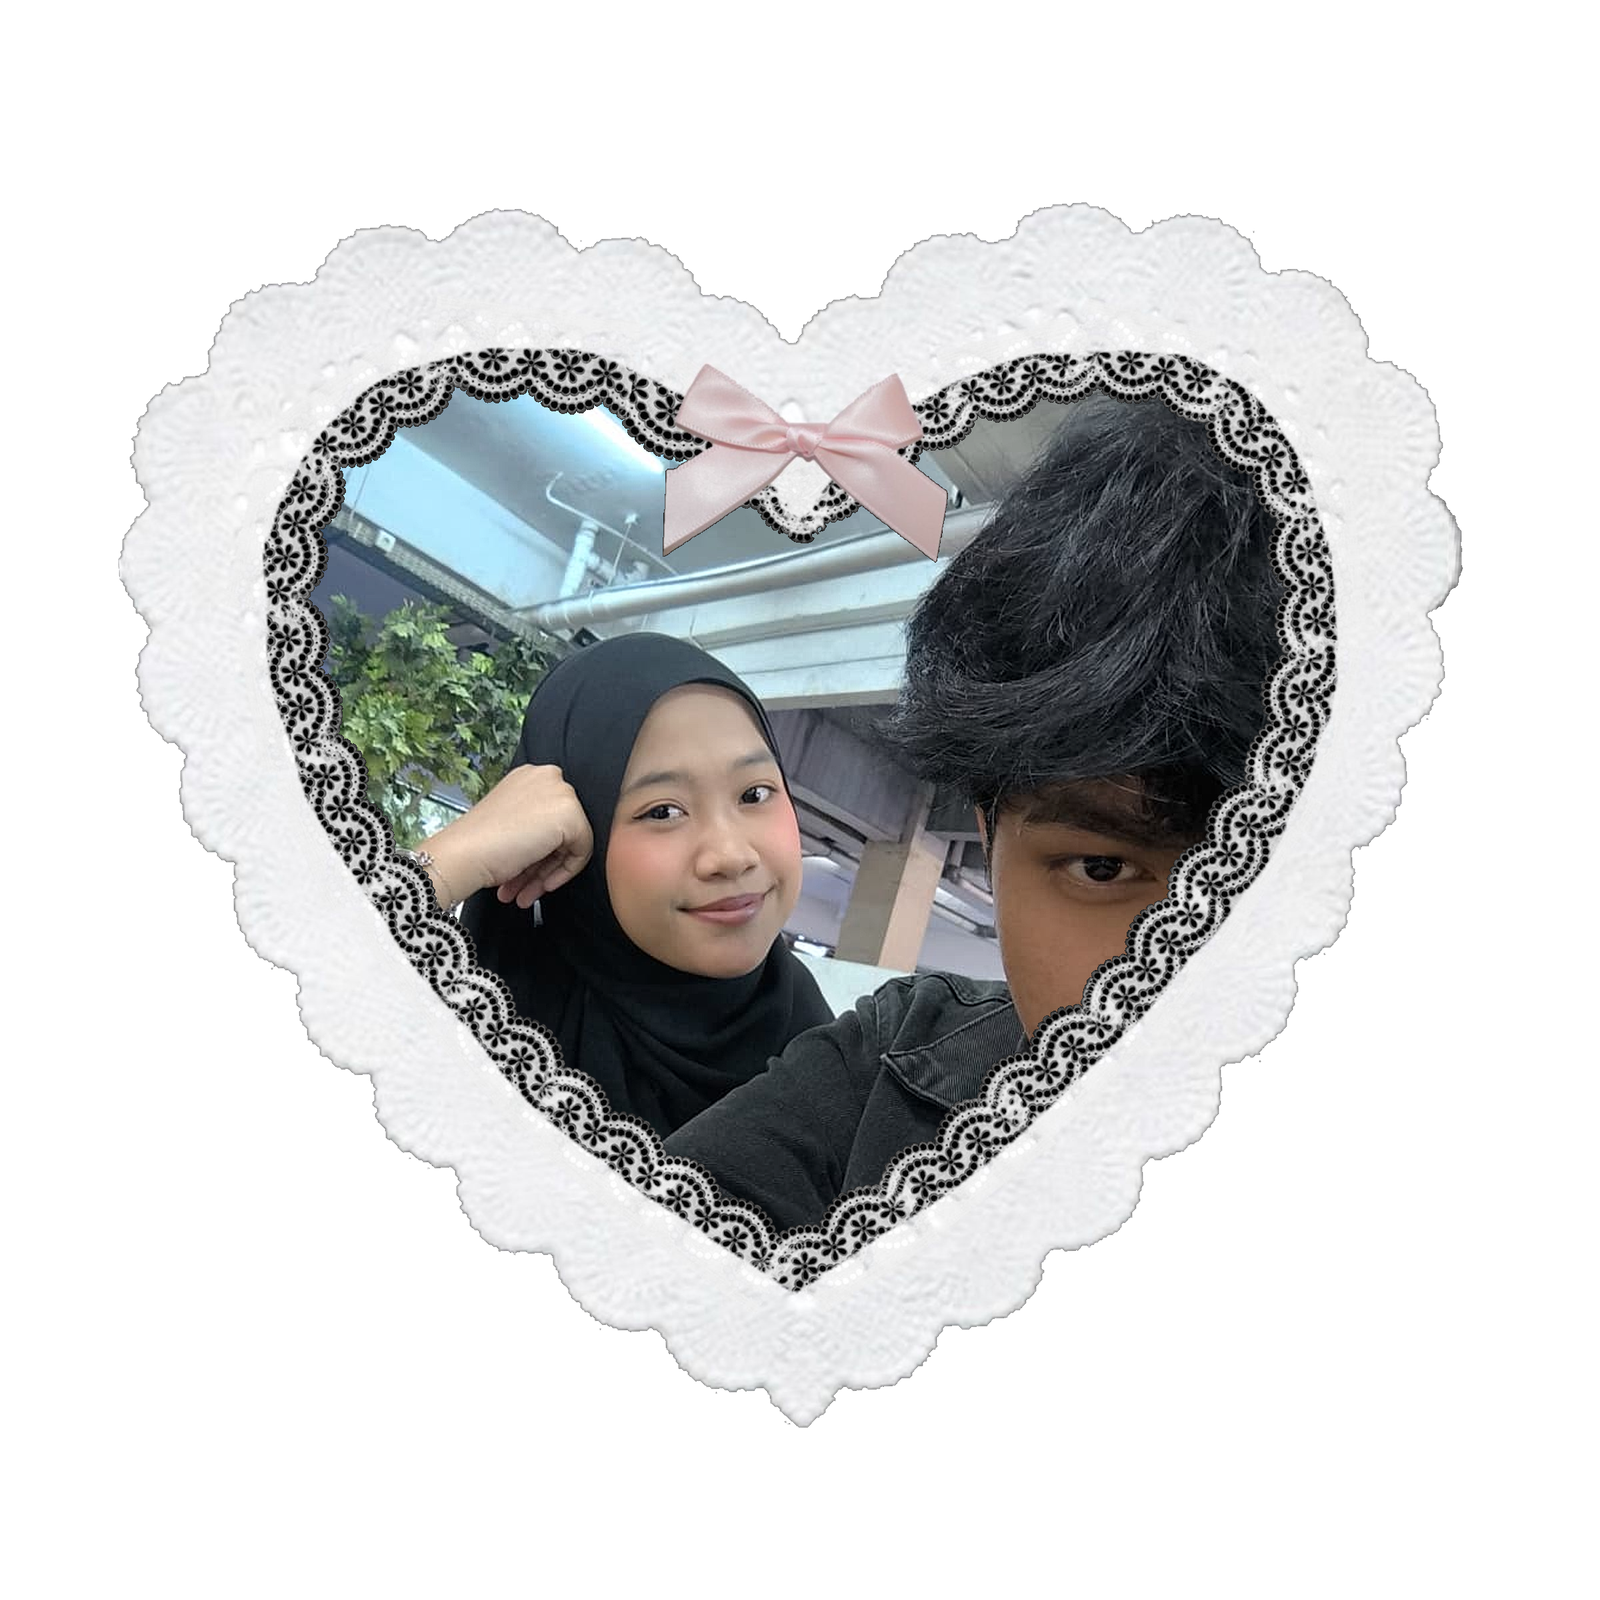
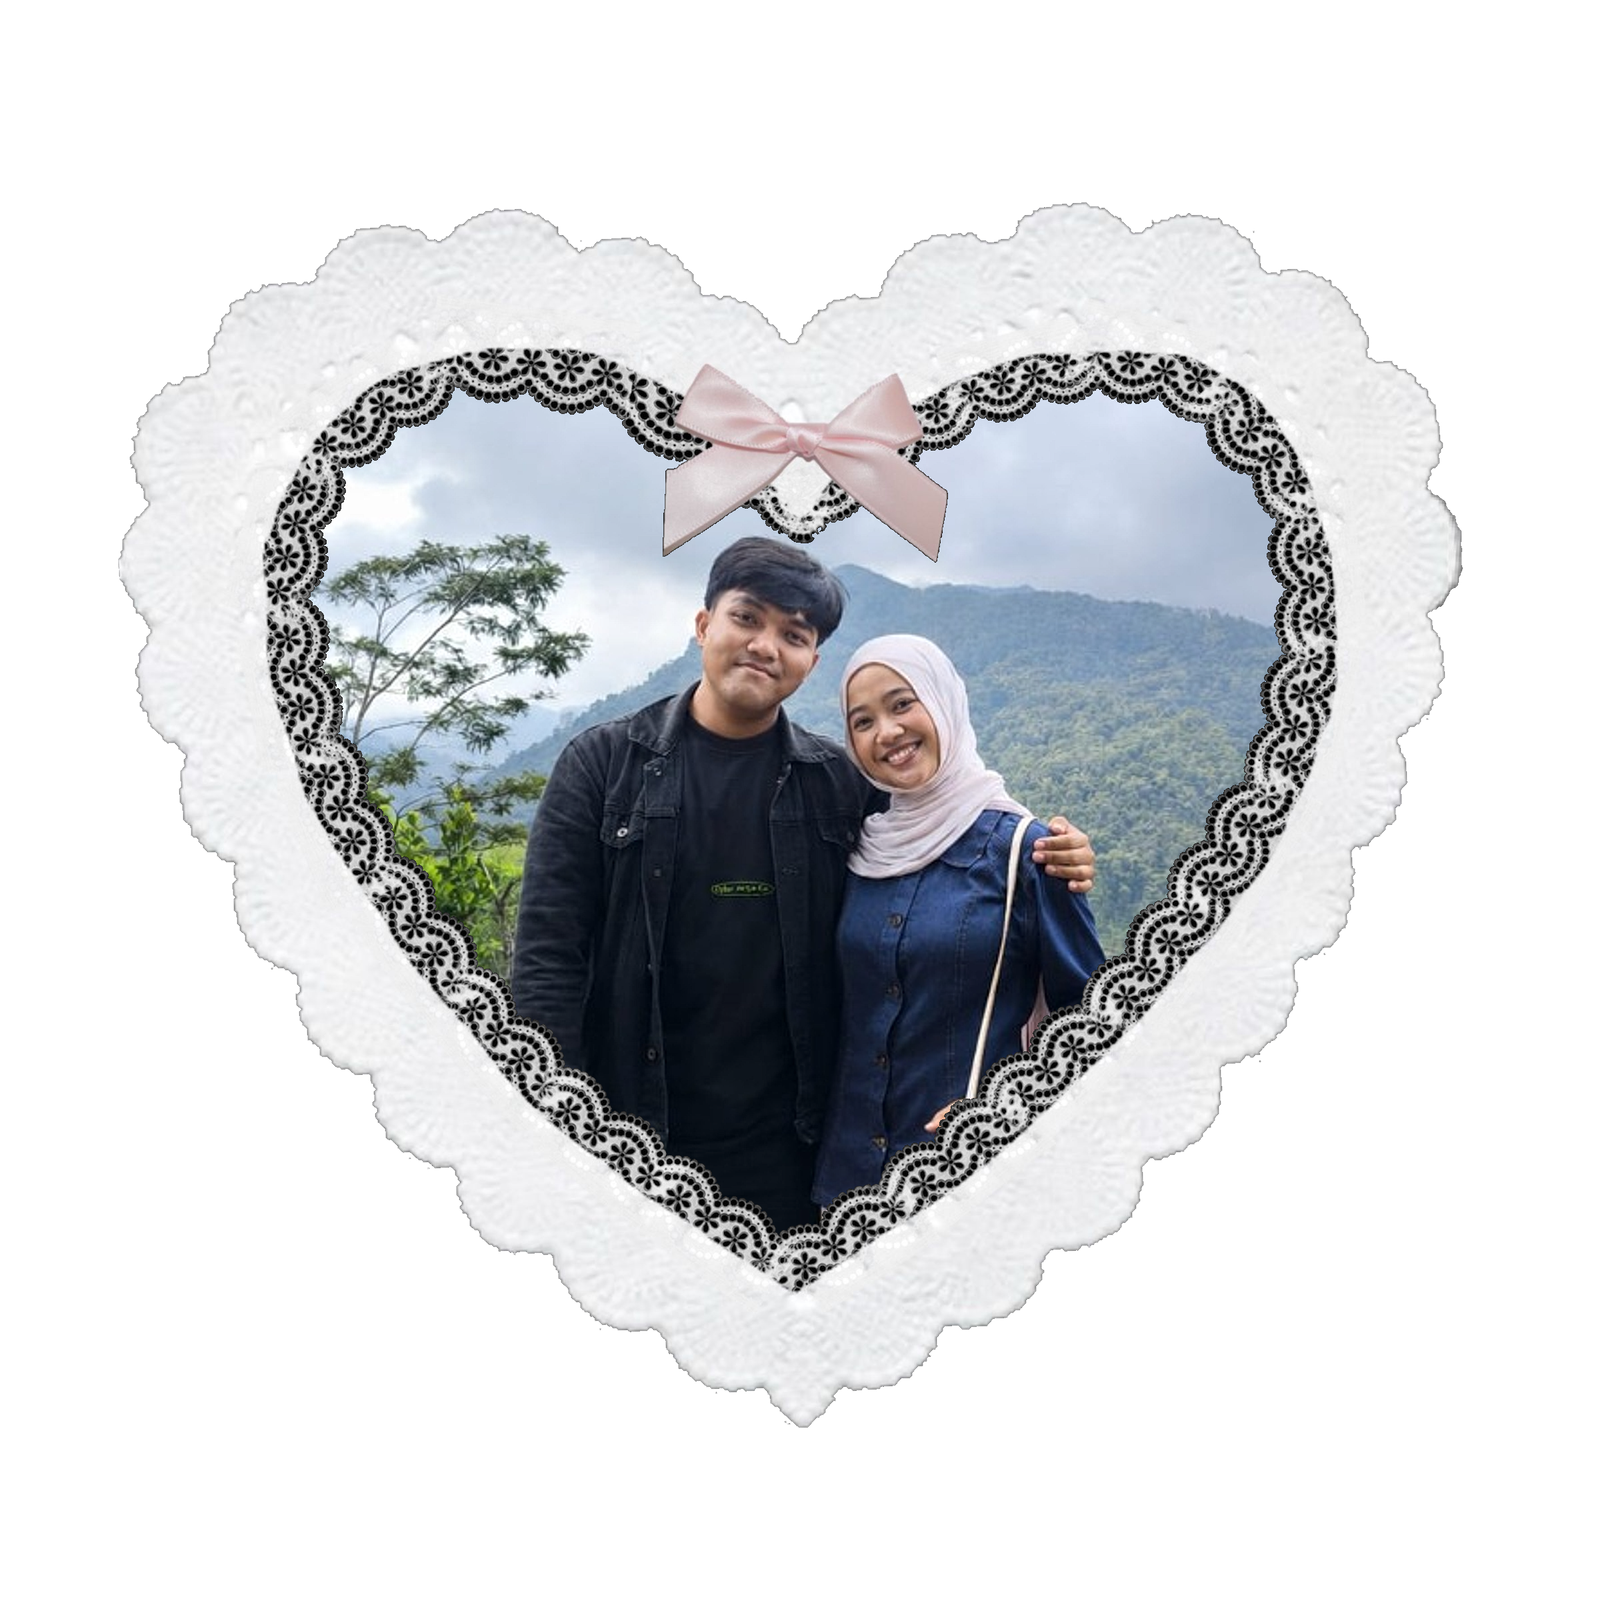
Use mountain scenic photo for ScreenLanding heart frame and preserve selfie for link preview

Changed region(s): [[0.1875, 0.25, 0.8125, 0.7812]]

diff --git a/scripts/deploy_mountain_landing.js b/scripts/deploy_mountain_landing.js
@@ -1,0 +1,182 @@
+import sharp from 'sharp';
+import fs from 'fs';
+
+async function deployMountainLanding() {
+  const framePath = 'scripts/pinterest_frame_orig.jpg';
+  const photoPath = 'couple_mountain.jpg';
+
+  console.log('1. Loading Pinterest frame and couple mountain photo...');
+  const { data: frameRaw, info } = await sharp(framePath).raw().toBuffer({ resolveWithObject: true });
+  const w = info.width; // 2400
+  const h = info.height; // 2400
+
+  function getB(idx) {
+    return (frameRaw[idx * 3] + frameRaw[idx * 3 + 1] + frameRaw[idx * 3 + 2]) / 3;
+  }
+
+  // Flood fill outside
+  const isOutside = new Uint8Array(w * h);
+  const queueOut = [];
+  for (let x = 0; x < w; x++) {
+    queueOut.push(x);
+    queueOut.push((h - 1) * w + x);
+    isOutside[x] = 1;
+    isOutside[(h - 1) * w + x] = 1;
+  }
+  for (let y = 0; y < h; y++) {
+    queueOut.push(y * w);
+    queueOut.push(y * w + (w - 1));
+    isOutside[y * w] = 1;
+    isOutside[y * w + (w - 1)] = 1;
+  }
+
+  let head = 0;
+  while (head < queueOut.length) {
+    const curr = queueOut[head++];
+    const cx = curr % w;
+    const cy = Math.floor(curr / w);
+    const neighbors = [
+      cx + 1 < w ? curr + 1 : -1,
+      cx - 1 >= 0 ? curr - 1 : -1,
+      cy + 1 < h ? curr + w : -1,
+      cy - 1 >= 0 ? curr - w : -1
+    ];
+    for (const nidx of neighbors) {
+      if (nidx >= 0 && !isOutside[nidx]) {
+        if (getB(nidx) < 45) {
+          isOutside[nidx] = 1;
+          queueOut.push(nidx);
+        }
+      }
+    }
+  }
+
+  // Smooth outside border to remove dark edge fringe
+  for (let pass = 0; pass < 2; pass++) {
+    const toAdd = [];
+    for (let y = 1; y < h - 1; y++) {
+      for (let x = 1; x < w - 1; x++) {
+        const idx = y * w + x;
+        if (!isOutside[idx]) {
+          const hasOut = isOutside[idx + 1] || isOutside[idx - 1] || isOutside[idx + w] || isOutside[idx - w];
+          if (hasOut && getB(idx) < 95) toAdd.push(idx);
+        }
+      }
+    }
+    for (const idx of toAdd) isOutside[idx] = 1;
+  }
+
+  // Inside flood fill
+  const isInside = new Uint8Array(w * h);
+  const queueIn = [1200 * w + 1200];
+  isInside[1200 * w + 1200] = 1;
+  head = 0;
+  while (head < queueIn.length) {
+    const curr = queueIn[head++];
+    const cx = curr % w;
+    const cy = Math.floor(curr / w);
+    const neighbors = [
+      cx + 1 < w ? curr + 1 : -1,
+      cx - 1 >= 0 ? curr - 1 : -1,
+      cy + 1 < h ? curr + w : -1,
+      cy - 1 >= 0 ? curr - w : -1
+    ];
+    for (const nidx of neighbors) {
+      if (nidx >= 0 && !isInside[nidx] && !isOutside[nidx]) {
+        if (getB(nidx) < 22) {
+          isInside[nidx] = 1;
+          queueIn.push(nidx);
+        }
+      }
+    }
+  }
+
+  console.log('2. Processing mountain photo with refined crop and lanczos3 sharpness...');
+  // Refined crop: left 180, top 160, size 570
+  const photoCropped = await sharp(photoPath)
+    .extract({ left: 180, top: 160, width: 570, height: 570 })
+    .resize(1540, 1540, { fit: 'fill', kernel: 'lanczos3' })
+    .sharpen({ sigma: 1.2, m1: 1.2, m2: 0.5 })
+    .raw()
+    .toBuffer();
+
+  const photoW = 1540;
+  const photoH = 1540;
+  const photoX = Math.round(1175 - photoW / 2);
+  const photoY = Math.round(1330 - photoH / 2);
+
+  const compositeBuf = Buffer.alloc(w * h * 4);
+
+  // Fill photo canvas
+  for (let py = 0; py < photoH; py++) {
+    for (let px = 0; px < photoW; px++) {
+      const targetX = photoX + px;
+      const targetY = photoY + py;
+      if (targetX >= 0 && targetX < w && targetY >= 0 && targetY < h) {
+        const cidx = (targetY * w + targetX) * 4;
+        const pidx = (py * photoW + px) * 3;
+        compositeBuf[cidx] = photoCropped[pidx];
+        compositeBuf[cidx + 1] = photoCropped[pidx + 1];
+        compositeBuf[cidx + 2] = photoCropped[pidx + 2];
+        compositeBuf[cidx + 3] = 255;
+      }
+    }
+  }
+
+  // Composite frame on top of photo
+  for (let y = 0; y < h; y++) {
+    for (let x = 0; x < w; x++) {
+      const idx = y * w + x;
+      const cidx = idx * 4;
+      const fidx = idx * 3;
+
+      if (isOutside[idx]) {
+        compositeBuf[cidx] = 0;
+        compositeBuf[cidx + 1] = 0;
+        compositeBuf[cidx + 2] = 0;
+        compositeBuf[cidx + 3] = 0;
+        continue;
+      }
+
+      if (isInside[idx]) continue;
+
+      const nearOut = (x > 0 && isOutside[idx - 1]) || 
+                      (x < w - 1 && isOutside[idx + 1]) || 
+                      (y > 0 && isOutside[idx - w]) || 
+                      (y < h - 1 && isOutside[idx + w]);
+
+      const fr = frameRaw[fidx];
+      const fg = frameRaw[fidx + 1];
+      const fb = frameRaw[fidx + 2];
+      const b = (fr + fg + fb) / 3;
+
+      if (nearOut && b < 160) {
+        const alphaNorm = Math.min(1.0, Math.max(0.0, (b - 80) / (160 - 80)));
+        compositeBuf[cidx] = Math.round(fr * (1 - alphaNorm) + 245 * alphaNorm);
+        compositeBuf[cidx + 1] = Math.round(fg * (1 - alphaNorm) + 245 * alphaNorm);
+        compositeBuf[cidx + 2] = Math.round(fb * (1 - alphaNorm) + 248 * alphaNorm);
+        compositeBuf[cidx + 3] = Math.round(alphaNorm * 255);
+      } else {
+        compositeBuf[cidx] = fr;
+        compositeBuf[cidx + 1] = fg;
+        compositeBuf[cidx + 2] = fb;
+        compositeBuf[cidx + 3] = 255;
+      }
+    }
+  }
+
+  console.log('3. Saving 1600x1600 Ultra-HD mountain composite for ScreenLanding...');
+  const masterHeartPath = 'public/heart_lace_hd.png';
+  await sharp(compositeBuf, { raw: { width: w, height: h, channels: 4 } })
+    .resize(1600, 1600, { kernel: 'lanczos3' })
+    .png({ compressionLevel: 8 })
+    .toFile(masterHeartPath);
+
+  fs.copyFileSync(masterHeartPath, 'public/heart_lace_user.png');
+  fs.copyFileSync(masterHeartPath, 'heart_lace_hd.png');
+  fs.copyFileSync(masterHeartPath, 'heart_lace_user.png');
+
+  console.log('4. ScreenLanding master assets successfully saved with Mountain photo!');
+}
+
+deployMountainLanding().catch(console.error);

diff --git a/special_birthday_gift.html b/special_birthday_gift.html
@@ -529,7 +529,7 @@
         <!-- ============================================== -->
         <div class="cover-heart-section">
             <div class="cover-heart-box">
-                <img src="heart_lace_hd.png?v=pinterest_v5" onerror="this.src='couple_main.jpg'" alt="Our Sweet Memory" style="width: 100%; height: 100%; object-fit: contain; image-rendering: -webkit-optimize-contrast;">
+                <img src="heart_lace_hd.png?v=mountain_v1" onerror="this.src='couple_main.jpg'" alt="Our Sweet Memory" style="width: 100%; height: 100%; object-fit: contain; image-rendering: -webkit-optimize-contrast;">
             </div>
 
             <!-- Sparkling Soft-Blue & Gold Stars beside Heart (NO PINK) -->

diff --git a/src/components/ScreenLanding.jsx b/src/components/ScreenLanding.jsx
@@ -191,7 +191,7 @@ export default function ScreenLanding({ onNext, config }) {
         >
           {!photoError ? (
             <img
-              src="/heart_lace_hd.png?v=pinterest_v5"
+              src="/heart_lace_hd.png?v=mountain_v1"
               alt="Our Sweet Memory"
               onError={() => setPhotoError(true)}
               onClick={() => {
